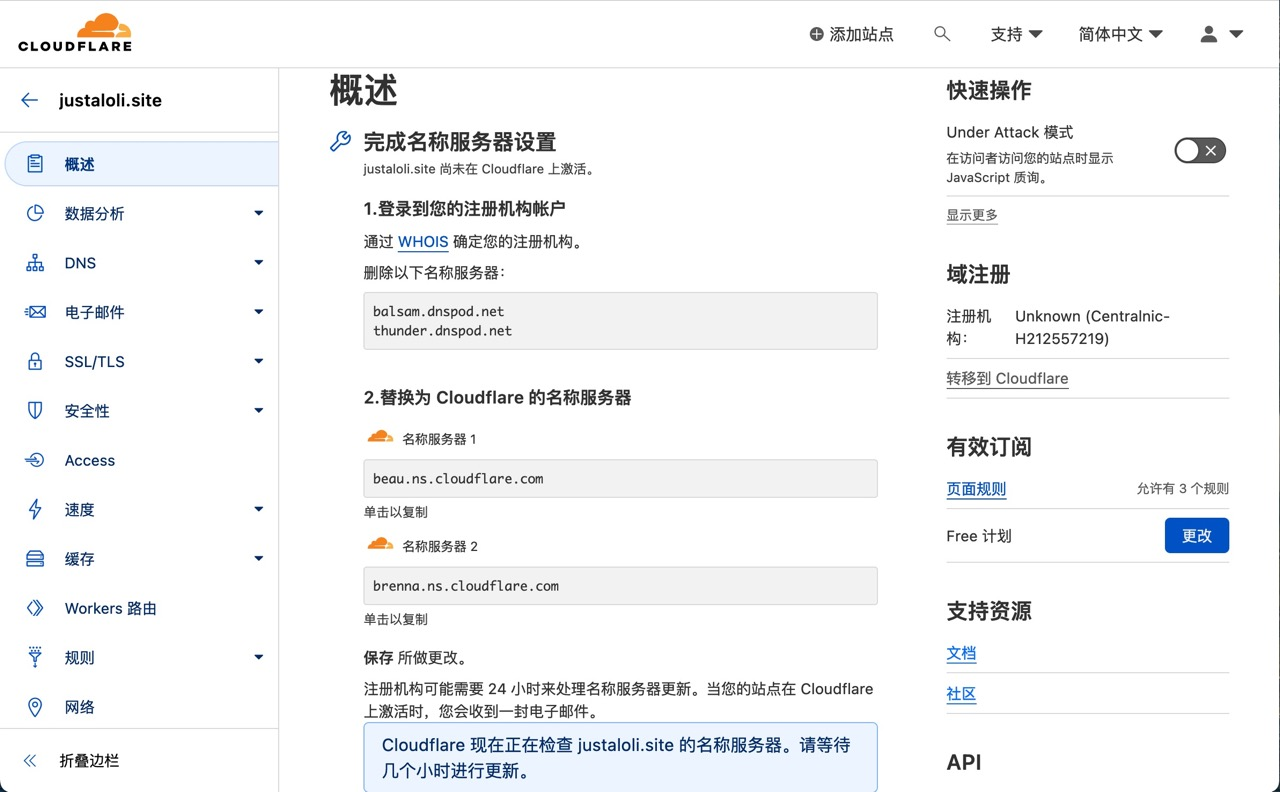
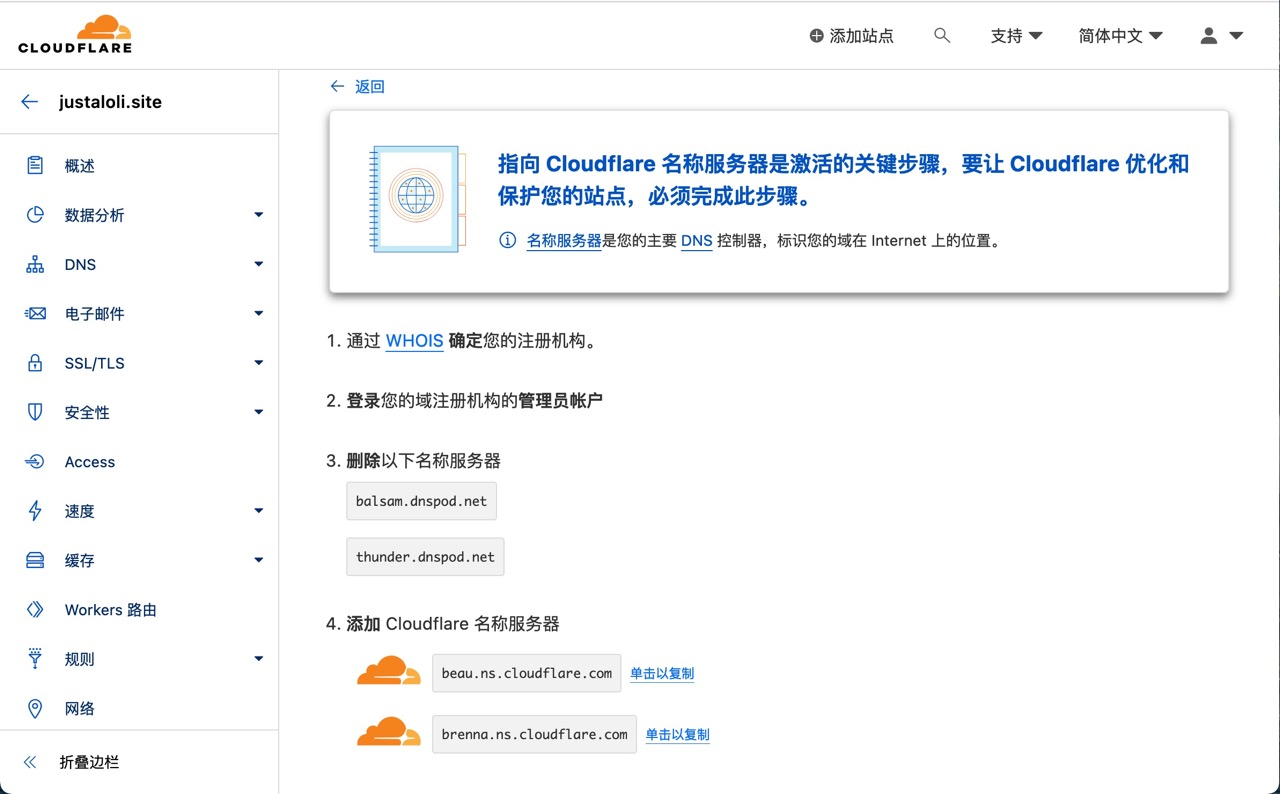
Site updated: 2023-01-13 20:22:01

diff --git a/posts/19711.html b/posts/19711.html
@@ -24,6 +24,7 @@
 <meta property="og:description" content="搭建流程；相关知识点；提供后续优化的一些方向">
 <meta property="og:locale" content="zh_CN">
 <meta property="og:image" content="https://justaloli.github.io/posts/19711/%E8%B4%AD%E4%B9%B0%E5%9F%9F%E5%90%8D.jpeg">
+<meta property="og:image" content="https://justaloli.github.io/posts/19711/%E4%BA%92%E8%81%94%E7%BD%91%E5%B9%B6%E9%9D%9E%E6%B3%95%E5%A4%96%E4%B9%8B%E5%9C%B0.jpg">
 <meta property="og:image" content="https://justaloli.github.io/posts/19711/%E9%80%89%E6%8B%A9%E8%AE%A1%E5%88%92.jpeg">
 <meta property="og:image" content="https://justaloli.github.io/posts/19711/%E7%A1%AE%E5%AE%9Aip.jpeg">
 <meta property="og:image" content="https://justaloli.github.io/posts/19711/%E6%B7%BB%E5%8A%A0dns%E8%AE%B0%E5%BD%95.jpeg">
@@ -36,7 +37,7 @@
 <meta property="og:image" content="https://justaloli.github.io/posts/19711/%E5%88%9D%E5%A7%8B%E5%8C%96hexo.jpeg">
 <meta property="og:image" content="https://justaloli.github.io/posts/19711/%E5%9C%A8%E6%9C%AC%E5%9C%B0%E6%9C%8D%E5%8A%A1%E5%99%A8%E8%BF%90%E8%A1%8Chexo%E6%9C%8D%E5%8A%A1.jpeg">
 <meta property="article:published_time" content="2023-01-13T08:00:00.000Z">
-<meta property="article:modified_time" content="2023-01-13T11:41:45.624Z">
+<meta property="article:modified_time" content="2023-01-13T12:21:36.812Z">
 <meta property="article:author" content="justaLoli">
 <meta name="twitter:card" content="summary_large_image">
 <meta name="twitter:image" content="https://justaloli.github.io/posts/19711/%E8%B4%AD%E4%B9%B0%E5%9F%9F%E5%90%8D.jpeg">
@@ -220,7 +221,7 @@
       <span class="post-meta mr-2">
         <i class="iconfont icon-chart"></i>
         
-          3.7k 字
+          4k 字
         
       </span>
     
@@ -231,7 +232,7 @@
         
         
         
-          31 分钟
+          34 分钟
         
       </span>
     
@@ -277,13 +278,13 @@
                 <link rel="stylesheet" type="text/css" href="https://cdn.jsdelivr.net/hint.css/2.4.1/hint.min.css"><p>本博客的搭建，离不开我的一位高中同学兼好友的指路： <a target="_blank" rel="noopener" href="https://mug-chen.github.io/posts/23043.html">https://mug-chen.github.io/posts/23043.html</a> 。他的文章简明且直击要害，为这个博客的搭建起到了灯塔一般的作用。</p>
 <p>不过，由于过于简明，初阅他的文章有一定难度。本文主要在这篇文章的基础上，补充一些知识点。</p>
 <h2 id="1-什么是hexo？为什么用hexo而不用wordpress之类的？"><a href="#1-什么是hexo？为什么用hexo而不用wordpress之类的？" class="headerlink" title="1. 什么是hexo？为什么用hexo而不用wordpress之类的？"></a>1. 什么是hexo？为什么用hexo而不用wordpress之类的？</h2><p>在这之前，我们先要明确一个网站的基本构成。</p>
-<p>十分粗略的说，一个网页（的前端）包含三个部分：html，css，js。直观的说，html负责告诉浏览器：网页上需要显示哪些内容；css负责告诉浏览器：这些内容以何种样式（例如：字体大小和颜色）显示；js负责告诉浏览器：网页将如何反馈用户的操作。再形象一些，如果将网页比作人体，HTML是骨架，CSS是皮肤，JS是肌肉（人的动作）。</p>
-<p>因此，如果要建立一个网页，至少需要熟悉上述三个部分以及它们之间的相互作用，这无疑非常困难。好在，这世上不乏现成的工具，我们只需要对这些工具进行简单的操作，它们就能帮我们生成所需的html，css，js，以及一系列网页所需的文件。</p>
-<p><strong>hexo</strong> 就是这样的一个工具。hexo是一个专门的博客框架。有了它，我们只需要埋头撰写博文，无需在意htmlcssjs一流，它会自动由我们的博文生成精美的网页。</p>
-<p>虽然世上还有wordpress等博客框架，但是选择hexo几乎是一个必然。我和我朋友的博客是利用 <code>Github Page</code> 呈现的。 <code>Github Page</code> 的优势是免费，劣势是其显示的网页必须是 <strong>静态</strong> 的。wordpress是动态的，必须建立在服务器上。这意味着，建立一个wordpress博客需要租服务器，并掏钱。而hexo生成的正好是静态网页。</p>
+<p>十分粗略的说，一个网页（的前端）包含三个部分：HTML，CSS，JS。直观的说，HTML负责告诉浏览器：网页上需要显示哪些内容；CSS负责告诉浏览器：这些内容以何种样式（例如：字体大小和颜色）显示；JS负责告诉浏览器：网页将如何反馈用户的操作。再形象一些，如果将网页比作人体，HTML是骨架，CSS是皮肤，JS是肌肉（人的动作）。</p>
+<p>因此，如果要建立一个网页，至少需要熟悉上述三个部分以及它们之间的相互作用，这无疑非常困难。好在，这世上不乏现成的工具，我们只需要对这些工具进行简单的操作，它们就能帮我们生成所需的HTML，CSS，JS，以及一系列网页所需的文件。</p>
+<p><strong>hexo</strong> 就是这样的一个工具。<code>hexo</code>是一个专门的博客框架。有了它，我们只需要埋头撰写博文，无需在意HTML、CSS、JS一流，它会自动由我们的博文生成精美的网页。</p>
+<p>虽然世上还有<code>wordpress</code>等博客框架，但是选择<code>hexo</code>几乎是一个必然。我和我朋友的博客是利用 <code>Github Page</code> 呈现的。 <code>Github Page</code> 的优势是免费，劣势是其显示的网页必须是 <strong>静态</strong> 的。<code>wordpress</code>是动态的，必须建立在服务器上。这意味着，建立一个<code>wordpress</code>博客需要租服务器，并掏钱。而<code>hexo</code>生成的正好是静态网页。</p>
 <p><del>你做静态网页的时候很爽，你部署之后不断刷新网页的样子也很狼狈（这句话的意思：静态网页导致整个网页都能被缓存，而由于缓存的存在，上传的更改无法被及时体现在网页上），大概要延后几分钟</del></p>
-<p>关于为什么使用hexo，更多内容可以参阅：</p>
 <blockquote>
+<p>关于为什么使用<code>hexo</code>，更多内容可以参阅：</p>
 <p><a target="_blank" rel="noopener" href="https://blog.csdn.net/xinghaikongmeng/article/details/107399643">https://blog.csdn.net/xinghaikongmeng/article/details/107399643</a></p>
 </blockquote>
 <h2 id="2-后续内容：一些自定义和美化经验"><a href="#2-后续内容：一些自定义和美化经验" class="headerlink" title="2. 后续内容：一些自定义和美化经验"></a>2. 后续内容：一些自定义和美化经验</h2><h3 id="1-配置-config-yml"><a href="#1-配置-config-yml" class="headerlink" title="1. 配置_config.yml"></a>1. 配置<code>_config.yml</code></h3><p>里面包含博客的诸多基本设置，可以自行设置更改。其中各项栏目的作用可以参见：</p>
@@ -297,34 +298,31 @@
 <li>不在url中使用中文的组件：abbrlink</li>
 <li>方便管理图片的组件：asset-image</li>
 </ol>
-<p>参阅：</p>
 <blockquote>
+<p>参阅：</p>
 <p><a target="_blank" rel="noopener" href="https://blog.csdn.net/qq_42780289/article/details/102662091">https://blog.csdn.net/qq_42780289/article/details/102662091</a></p>
 <p><a target="_blank" rel="noopener" href="https://www.cnblogs.com/QianBoy/p/8721529.html">https://www.cnblogs.com/QianBoy/p/8721529.html</a></p>
 </blockquote>
 <h3 id="4-cdn加速"><a href="#4-cdn加速" class="headerlink" title="4. cdn加速"></a>4. cdn加速</h3><ul>
 <li>提前说：这个部分 <strong>要花钱，且要持续花钱（域名基本只租不卖）</strong></li>
 </ul>
-<h4 id="1-为什么需要cdn加速？"><a href="#1-为什么需要cdn加速？" class="headerlink" title="1. 为什么需要cdn加速？"></a>1. 为什么需要cdn加速？</h4><p>因为众所周知的原因，<code>Github Page</code> 打开，太慢了。</p>
-<h4 id="2-什么是cdn加速？"><a href="#2-什么是cdn加速？" class="headerlink" title="2. 什么是cdn加速？"></a>2. 什么是cdn加速？</h4><p>一个简单的理解是，cdn是一些缓存服务器，将你网页的资源存放在距离用户更近的服务器中。这样，可以加速内容的访问，同时缓解主服务器的压力。</p>
-<h4 id="3-配置cdn加速"><a href="#3-配置cdn加速" class="headerlink" title="3. 配置cdn加速"></a>3. 配置cdn加速</h4><p>这里选择cloudflare提供的cdn服务（注：主要的原因是匿名且免费。cloudflare虽然不在中国，但访问速度比github快不少）。</p>
+<h4 id="为什么需要cdn加速？"><a href="#为什么需要cdn加速？" class="headerlink" title="为什么需要cdn加速？"></a>为什么需要cdn加速？</h4><p>因为众所周知的原因，<code>Github Page</code> 打开，太慢了。</p>
+<h4 id="什么是cdn加速？"><a href="#什么是cdn加速？" class="headerlink" title="什么是cdn加速？"></a>什么是cdn加速？</h4><p>一个简单的理解是，cdn是一些缓存服务器，将你网页的资源存放在距离用户更近的服务器中。这样，可以加速内容的访问，同时缓解主服务器的压力。</p>
+<h4 id="配置cdn加速"><a href="#配置cdn加速" class="headerlink" title="配置cdn加速"></a>配置cdn加速</h4><p>这里选择cloudflare提供的cdn服务（注：主要的原因是匿名且免费。cloudflare虽然不在中国，但访问速度比github快不少）。</p>
 <p><strong>不过，要注意，在cdn加速前我们需要先拥有一个域名</strong>，而这常常是花钱的。</p>
 <p>这里以腾讯云为例。</p>
-<ol>
-<li>购买域名</li>
-</ol>
-<p>直接百度到腾讯云域名购买，输入想要的域名，对应价格购买就行了。不同顶级域的价格会有差距。像这个 <a target="_blank" rel="noopener" href="https://justaloli.site/">justaloli.site</a> ,  第一年仅需8元。</p>
+<h5 id="1-购买域名"><a href="#1-购买域名" class="headerlink" title="1. 购买域名"></a>1. 购买域名</h5><p>直接到腾讯云域名购买，输入想要的域名，对应价格购买就行了。不同顶级域的价格会有差距。像这个 <a target="_blank" rel="noopener" href="https://justaloli.site/">justaloli.site</a> ,  第一年仅需8元，童叟无欺。</p>
 <p><img src="/posts/19711/%E8%B4%AD%E4%B9%B0%E5%9F%9F%E5%90%8D.jpeg" srcset="/img/loading.gif" lazyload></p>
-<p>注意：国内的域名购买需要实名；需要等待一段时间审核域名才能正式使用。</p>
-<ol start="2">
-<li>注册cloudflare</li>
-</ol>
-<p>注册后点击“添加站点”，输入刚刚购买的域名 <a target="_blank" rel="noopener" href="https://justaloli.site/">justaloli.site</a>，下一步选择免费计划，然后继续。</p>
+<p>注意：国内的域名购买<strong>需要实名</strong>；需要等待一段时间审核域名才能正式使用。</p>
+<div style="width:30%;margin:auto">
+
+<p><img src="/posts/19711/%E4%BA%92%E8%81%94%E7%BD%91%E5%B9%B6%E9%9D%9E%E6%B3%95%E5%A4%96%E4%B9%8B%E5%9C%B0.jpg" srcset="/img/loading.gif" lazyload alt="互联网并非法外之地！"></p>
+</div>
+
+
+<h5 id="2-注册cloudflare"><a href="#2-注册cloudflare" class="headerlink" title="2. 注册cloudflare"></a>2. 注册cloudflare</h5><p>注册后点击“添加站点”，输入刚刚购买的域名 <a target="_blank" rel="noopener" href="https://justaloli.site/">justaloli.site</a>，下一步选择免费计划，然后继续。</p>
 <p><img src="/posts/19711/%E9%80%89%E6%8B%A9%E8%AE%A1%E5%88%92.jpeg" srcset="/img/loading.gif" lazyload></p>
-<ol start="3">
-<li>向cloudflare给出dns记录。</li>
-</ol>
-<p>这一步紧随第二步，就是网站的下一页。在这里我们要手动指出 <a target="_blank" rel="noopener" href="https://justaloli.site/">justaloli.site</a> 要指向哪个ip地址。</p>
+<h5 id="3-向cloudflare给出dns记录。"><a href="#3-向cloudflare给出dns记录。" class="headerlink" title="3. 向cloudflare给出dns记录。"></a>3. 向cloudflare给出dns记录。</h5><p>这一步紧随第二步，就是网站的下一页。在这里我们要手动指出 <a target="_blank" rel="noopener" href="https://justaloli.site/">justaloli.site</a> 要指向哪个ip地址。</p>
 <p><strong>首先：</strong> 我们要明确我们网页的ip地址。博客目前的域名仍然是<code>justaloli.github.io</code>，我们在命令行输入：</p>
 <figure class="highlight bash"><table><tr><td class="gutter"><pre><span class="line">1</span><br><span class="line">2</span><br><span class="line">3</span><br><span class="line">4</span><br></pre></td><td class="code"><pre><code class="hljs bash"><span class="hljs-comment">#Windows</span><br>ping justaloli.github.io<br><span class="hljs-comment">#MacOS或Linux</span><br>dig justaloli.github.io<br></code></pre></td></tr></table></figure>
 
@@ -340,33 +338,32 @@
 <p>你可能会注意到记录左侧有橙色小三角。无需理会，继续。</p>
 <p><strong>最后：</strong> 将我们注册的<code>justaloli.site</code>的域名服务器改成cloudflare的服务器。</p>
 <p><img src="/posts/19711/cloudflare%E6%8F%90%E7%A4%BA%E4%BF%AE%E6%94%B9dns%E6%9C%8D%E5%8A%A1%E5%99%A8.jpeg" srcset="/img/loading.gif" lazyload alt="cloudflare网站上的指示"></p>
-<p>打开腾讯云的控制台，进入域名的 <code>概况</code> 页面，左下角 <code>DNS解析</code>，进行修改。</p>
+<p>打开腾讯云的控制台，进入域名的 <code>概况</code> 页面，左下角 <code>DNS解析</code>，进行修改，将腾讯云内置的DNS服务器改成cloudflare网页上给出的服务器。</p>
 <p><img src="/posts/19711/%E4%BF%AE%E6%94%B9dns.jpeg" srcset="/img/loading.gif" lazyload></p>
 <p>完成后回到cloudflare。后续还有一些选项，建议开启HTTPS，并且将SSL策略设置为<code>完全</code></p>
-<ol start="4">
-<li>把 <code>Github Page</code> 的域名调整为 <a target="_blank" rel="noopener" href="https://justaloli.site/">justaloli.site</a></li>
-</ol>
-<p>在项目的<code>Settings-Pages</code>中，在下方的 <code>Custom domain</code> 位置填写 <a target="_blank" rel="noopener" href="https://justaloli.site/">justaloli.site</a>。并保存。这时，如果前面一切顺利，github将自动完成DNS检测。</p>
+<h5 id="4-把-Github-Page-的域名调整为-justaloli-site"><a href="#4-把-Github-Page-的域名调整为-justaloli-site" class="headerlink" title="4. 把 Github Page 的域名调整为 justaloli.site"></a>4. 把 <code>Github Page</code> 的域名调整为 <a target="_blank" rel="noopener" href="https://justaloli.site/">justaloli.site</a></h5><p>在项目的<code>Settings-Pages</code>中，在下方的 <code>Custom domain</code> 位置填写 <a target="_blank" rel="noopener" href="https://justaloli.site/">justaloli.site</a>。并保存。这时，如果前面一切顺利，github将自动完成DNS检测。</p>
 <p><img src="/posts/19711/github%E7%9A%84dns%E6%A3%80%E6%B5%8B.jpeg" srcset="/img/loading.gif" lazyload></p>
 <p>完成后，建议勾选下面的强制HTTPS。</p>
-<ol start="5">
-<li>同步我们本地的项目</li>
-</ol>
-<p>完成后，回到Github项目主页，会发现多了一个<code>CNAME</code>文件。</p>
+<h5 id="5-同步我们本地的项目"><a href="#5-同步我们本地的项目" class="headerlink" title="5. 同步我们本地的项目"></a>5. 同步我们本地的项目</h5><p>完成后，回到Github项目主页，会发现多了一个<code>CNAME</code>文件。</p>
 <p><img src="/posts/19711/%E9%A1%B9%E7%9B%AE.jpeg" srcset="/img/loading.gif" lazyload></p>
 <p>这个文件内容只有一行，就是我们的自定义域名 <a target="_blank" rel="noopener" href="https://justaloli.site/">justaloli.site</a>。</p>
 <p>这时，我们要在我们本地项目的 <code>/source/</code> 目录下创建一个一模一样的 <code>CNAME</code> 文件，填入我们的自定义域名。</p>
-<p>这很重要！否则我们 <code>hexo d</code> 之后，<code>Github</code> 上的 <code>CNAME</code> 文件会消失，自定义域名的设置会随之消失。</p>
+<p><strong>这很重要！否则我们在本地 <code>hexo d</code> 后，<code>Github</code> 上的 <code>CNAME</code> 文件会消失，自定义域名的设置会随之消失。</strong></p>
 <p>一系列步骤完成后，就可以使用自定义的<a target="_blank" rel="noopener" href="https://justaloli.site/">justaloli.site</a>访问博客了。</p>
 <p><strong>Remark：</strong>，如果中途出现哪一步有问题，不要着急，可以先等一小会，服务器更新需要时间。</p>
+<blockquote>
+<p>cdn部分可以参见：</p>
+<p><a target="_blank" rel="noopener" href="https://www.cnblogs.com/yuelblog/p/15829774.html">https://www.cnblogs.com/yuelblog/p/15829774.html</a></p>
+<p><a target="_blank" rel="noopener" href="https://www.zhihu.com/question/28814437">https://www.zhihu.com/question/28814437</a></p>
+</blockquote>
 <h2 id="附：Mac-amp-linux部署hexo博客的方式（比windows简单很多！）和一些截图"><a href="#附：Mac-amp-linux部署hexo博客的方式（比windows简单很多！）和一些截图" class="headerlink" title="附：Mac&amp;linux部署hexo博客的方式（比windows简单很多！）和一些截图"></a>附：Mac&amp;linux部署hexo博客的方式（比windows简单很多！）和一些截图</h2><p>以Mac为例。</p>
 <h3 id="前提条件"><a href="#前提条件" class="headerlink" title="前提条件"></a>前提条件</h3><ol>
 <li>确保安装了homebrew，并确保homebrew使用了国内镜像</li>
 <li>确保安装了git，并确保git可以通过代理等方式正确访问github</li>
 </ol>
 <p>上两条测试方式：在终端运行brew、再运行git，看是否有输出。</p>
-<p>关于终端的git如何使用代理，可以参阅：</p>
 <blockquote>
+<p>关于终端的git如何使用代理，可以参阅：</p>
 <p><a target="_blank" rel="noopener" href="https://zhuanlan.zhihu.com/p/481574024">https://zhuanlan.zhihu.com/p/481574024</a></p>
 </blockquote>
 <h3 id="第一步：安装-node-js-和-hexo"><a href="#第一步：安装-node-js-和-hexo" class="headerlink" title="第一步：安装 node.js 和 hexo"></a>第一步：安装 node.js 和 hexo</h3><ol>
@@ -398,8 +395,8 @@
 <h3 id="第三步：将项目上传到Github，建立Github-Page"><a href="#第三步：将项目上传到Github，建立Github-Page" class="headerlink" title="第三步：将项目上传到Github，建立Github Page"></a>第三步：将项目上传到Github，建立Github Page</h3><ol>
 <li>创建github项目</li>
 </ol>
-<p>可以参阅：</p>
 <blockquote>
+<p>可以参阅：</p>
 <p><a target="_blank" rel="noopener" href="https://zhuanlan.zhihu.com/p/28321740">https://zhuanlan.zhihu.com/p/28321740</a></p>
 </blockquote>
 <p>看到 <em>2.开始搭建博客</em> 的前一点部分就好了。</p>
@@ -418,8 +415,15 @@
 <p>还有很多近义词如“同步”“上传”“push”方便理解这项操作。</p>
 <figure class="highlight bash"><table><tr><td class="gutter"><pre><span class="line">1</span><br><span class="line">2</span><br><span class="line">3</span><br><span class="line">4</span><br></pre></td><td class="code"><pre><code class="hljs bash"><span class="hljs-comment">#这是安装hexo的一个组件，用这个组建调用git</span><br>npm install hexo-deployer-git --save<br>hexo g <span class="hljs-comment">#g = generate</span><br>hexo d <span class="hljs-comment">#d = deploy</span><br></code></pre></td></tr></table></figure>
 
-<hr>
-<h1 id="引用"><a href="#引用" class="headerlink" title="引用"></a>引用</h1><p>在文末，再次对 <code>MUG-chen</code> 以及文内所有引用源的作者表示感谢！</p>
+<h3 id="第四步：撰写博文"><a href="#第四步：撰写博文" class="headerlink" title="第四步：撰写博文"></a>第四步：撰写博文</h3><figure class="highlight bash"><table><tr><td class="gutter"><pre><span class="line">1</span><br><span class="line">2</span><br><span class="line">3</span><br></pre></td><td class="code"><pre><code class="hljs bash">hexo new post 你的博文名字<br>hexo s<br><span class="hljs-comment">#用你喜欢的方式打开 /source/_posts/你的博文名字.md 并撰写，保存。</span><br></code></pre></td></tr></table></figure>
+
+<p><strong>Remark：</strong> 撰写时，可以保持<code>hexo s</code>始终运行。这样，在你保存md文件后，刷新<code>localhost</code>，就能立刻看到效果。</p>
+<p>上传修改到<code>Github Page</code>：</p>
+<figure class="highlight bash"><table><tr><td class="gutter"><pre><span class="line">1</span><br><span class="line">2</span><br><span class="line">3</span><br></pre></td><td class="code"><pre><code class="hljs bash"><span class="hljs-comment">#这是安装hexo的一个组件，用这个组建调用git</span><br>hexo g<br>hexo d<br></code></pre></td></tr></table></figure>
+
+
+
+<h1 id="引用"><a href="#引用" class="headerlink" title="引用"></a>引用</h1><p>文中引用的各类文章很多，不再一一列出。再次对 <code>MUG-chen</code> 以及文内所有引用源的作者表示感谢！</p>
 
                 
               </div>

diff --git a/posts/61274.html b/posts/61274.html
@@ -224,7 +224,7 @@
         
         
         
-          14 分钟
+          13 分钟
         
       </span>
     
@@ -331,21 +331,21 @@
 <td align="left">小可爱</td>
 <td align="center">18</td>
 <td align="right">吃可爱多</td>
-<td align="center"><a href="mailto:&#x6c;&#111;&#118;&#101;&#108;&#121;&#64;&#x74;&#x65;&#115;&#x74;&#x2e;&#x63;&#x6f;&#x6d;">&#x6c;&#111;&#118;&#101;&#108;&#121;&#64;&#x74;&#x65;&#115;&#x74;&#x2e;&#x63;&#x6f;&#x6d;</a></td>
+<td align="center"><a href="mailto:&#108;&#111;&#118;&#101;&#x6c;&#x79;&#x40;&#116;&#x65;&#115;&#x74;&#46;&#x63;&#x6f;&#x6d;">&#108;&#111;&#118;&#101;&#x6c;&#x79;&#x40;&#116;&#x65;&#115;&#x74;&#46;&#x63;&#x6f;&#x6d;</a></td>
 <td align="center">18812345678</td>
 </tr>
 <tr>
 <td align="left">小小勇敢</td>
 <td align="center">20</td>
 <td align="right">爬棵勇敢树</td>
-<td align="center"><a href="mailto:&#98;&#114;&#97;&#118;&#x65;&#x40;&#x74;&#101;&#x73;&#x74;&#x2e;&#99;&#x6f;&#x6d;">&#98;&#114;&#97;&#118;&#x65;&#x40;&#x74;&#101;&#x73;&#x74;&#x2e;&#99;&#x6f;&#x6d;</a></td>
+<td align="center"><a href="mailto:&#x62;&#114;&#97;&#118;&#x65;&#64;&#x74;&#101;&#x73;&#x74;&#46;&#99;&#x6f;&#109;">&#x62;&#114;&#97;&#118;&#x65;&#64;&#x74;&#101;&#x73;&#x74;&#46;&#99;&#x6f;&#109;</a></td>
 <td align="center">17712345678</td>
 </tr>
 <tr>
 <td align="left">小小小机智</td>
 <td align="center">22</td>
 <td align="right">看一本机智书</td>
-<td align="center"><a href="mailto:&#x73;&#109;&#x61;&#114;&#116;&#x40;&#x74;&#x65;&#x73;&#x74;&#x2e;&#x63;&#111;&#x6d;">&#x73;&#109;&#x61;&#114;&#116;&#x40;&#x74;&#x65;&#x73;&#x74;&#x2e;&#x63;&#111;&#x6d;</a></td>
+<td align="center"><a href="mailto:&#115;&#109;&#x61;&#x72;&#116;&#64;&#116;&#x65;&#x73;&#x74;&#x2e;&#99;&#x6f;&#109;">&#115;&#109;&#x61;&#x72;&#116;&#64;&#116;&#x65;&#x73;&#x74;&#x2e;&#99;&#x6f;&#109;</a></td>
 <td align="center">16612345678</td>
 </tr>
 </tbody></table>
